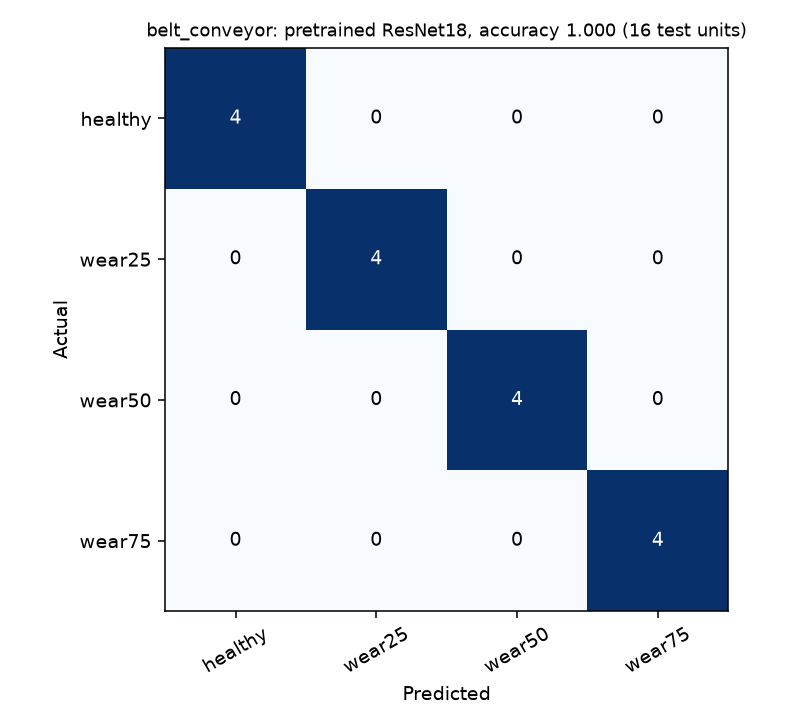
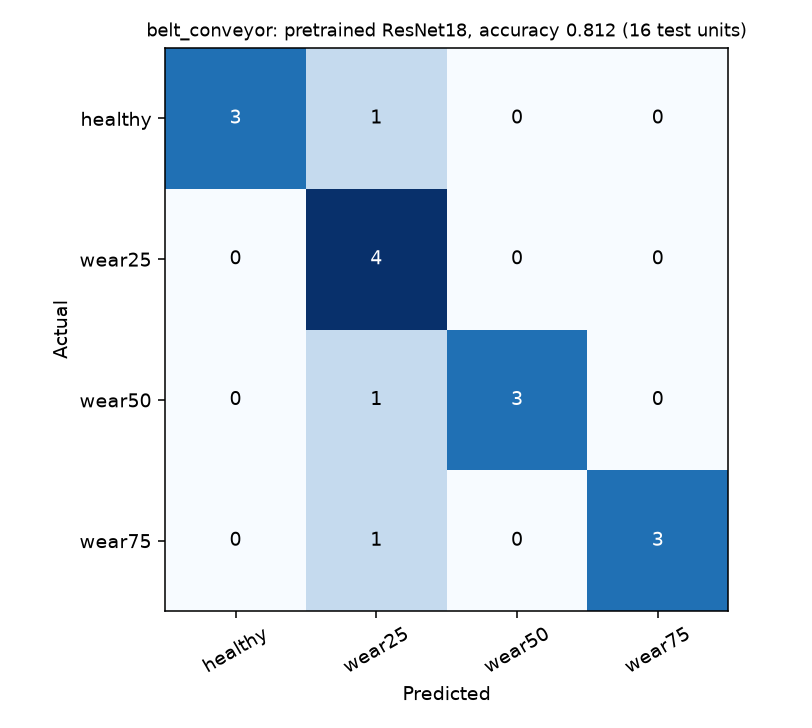
Update Week 6 five-machine results and reproducibility notes

Changed region(s): [[0.3695, 0.4533, 0.8929, 0.8462], [0.1847, 0.0604, 0.5542, 0.272], [0.6773, 0.0302, 0.7697, 0.0604]]

diff --git a/Models/belt_conveyor.py b/Models/belt_conveyor.py
@@ -17,7 +17,7 @@ Commands:
     csv             Week 6: 4-class sensor model from a CSV feature table
     cnn             Week 6: CNN with data augmentation on the named images (run export-images first)
     cnn-pretrained  Week 6: transfer learning, pretrained ResNet18 on the named images
-    intake-vibration  check the CORA vibration files downloaded in a browser (MD5) and file them
+    intake-vibration  check selectively downloaded CORA vibration files (MD5) and file them
     train-final     train the sensor model on all data and save it (--exclude to leave recordings out)
     predict         predict from any CSV (feature table or raw recording) and show accuracy if labels are known
     ensembles       proposal Week 6: XGBoost / LightGBM vs random forest etc. (--split time for the secondary test)
@@ -1822,11 +1822,11 @@ def cnn_pretrained(run: bool = True) -> dict:
 
 
 # ====================================================================================================
-# intake-vibration: check and file the CORA files downloaded in a browser
+# intake-vibration: check and file selectively downloaded CORA files
 # ====================================================================================================
 
 def intake_vibration(run: bool = True) -> dict:
-    """Check the CORA files downloaded in a browser against the repository's MD5 and move them into Raw_Data/.
+    """Check downloaded CORA files against the repository's MD5 and move them into Raw_Data/.
 
     The CORA repository (dataverse.csuc.cat, DOI 10.34810/DATA2500, CC BY 4.0) now shows a "not a bot"
     check, so these files cannot be fetched by code; download them from the dataset page in a browser
@@ -1888,7 +1888,7 @@ def intake_vibration(run: bool = True) -> dict:
             print(f"verified {name}", flush=True)
         MANIFEST.write_text(json.dumps({
             "source": "https://doi.org/10.34810/DATA2500", "license": "CC BY 4.0",
-            "note": "downloaded in a browser (repository bot check); every file checked against the publisher MD5",
+            "note": "selectively downloaded from CORA; every file checked against the publisher MD5",
             "files": records, "missing": missing}, indent=2) + "\n", encoding="utf-8")
         print(f"{len(records)} files verified; {len(missing)} still missing" + (f": {missing}" if missing else ""))
 

diff --git a/Models/excavator.py b/Models/excavator.py
@@ -9,7 +9,7 @@ Usage:
     python Models/excavator.py <command> --help
 
 Commands:
-    intake          check the CORA files downloaded in a browser (MD5) and move them into Raw_Data/
+    intake          check selectively downloaded CORA files (MD5) and move them into Raw_Data/
     csv             4-class vibration model from a CSV feature table (validation-selected model)
     export-images   save the infrared images as named files in Images/excavator/ (local only)
     cnn             CNN with data augmentation on the named images
@@ -32,11 +32,11 @@ ROOT = Path(__file__).resolve().parents[1]
 
 
 # ====================================================================================================
-# intake: check and file the CORA files downloaded in a browser
+# intake: check and file selectively downloaded CORA files
 # ====================================================================================================
 
 def intake(run: bool = True) -> dict:
-    """Check the CORA files downloaded in a browser against the repository's MD5 and move them into Raw_Data/.
+    """Check downloaded CORA files against the repository's MD5 and move them into Raw_Data/.
 
     The CORA repository (dataverse.csuc.cat, DOI 10.34810/DATA2500, CC BY 4.0) now shows a "not a bot"
     check, so these files cannot be fetched by code; download them from the dataset page in a browser
@@ -110,7 +110,7 @@ def intake(run: bool = True) -> dict:
             print(f"verified {name}", flush=True)
         MANIFEST.write_text(json.dumps({
             "source": "https://doi.org/10.34810/DATA2500", "license": "CC BY 4.0",
-            "note": "downloaded in a browser (repository bot check); every file checked against the publisher MD5",
+            "note": "selectively downloaded from CORA; every file checked against the publisher MD5",
             "files": records, "missing": missing}, indent=2) + "\n", encoding="utf-8")
         print(f"{len(records)} files verified; {len(missing)} still missing" + (f": {missing}" if missing else ""))
 

diff --git a/Documentation/week_06_professor_remarks.md b/Documentation/week_06_professor_remarks.md
@@ -1,4 +1,4 @@
-# Week 6: professor's remarks — 4 machines, 4 classes, CSV sensor models and CNNs
+# Week 6: professor's remarks — 5 machine mappings, 4 classes, CSV sensor models and CNNs
 
 **October 2026 — Saskatchewan Polytechnic PROJ 613.** Remarks received after the Week 5 review:
 
@@ -8,17 +8,17 @@
 4. Use **data augmentation**.
 5. **Name each image by its machine** (for example `pump_...`, `belt_...`) so every image has a separate name.
 
-The team also set the goal of **four machines ready by Week 5**; the Excavator was added as machine 4.
+The team also set the goal of **four machines ready by Week 5**; the Excavator was added as machine 4. The Dozer was added as machine 5 in Week 6 by mapping its final drive to the **same CORA gear-wear runs** already used for Belt Conveyor. It is not a fifth independent dataset.
 
 ## What was done
 
 | Remark | Implementation |
 |---|---|
-| 4 classes | Pump: healthy / inner / outer / ball. Haul Truck: healthy / inner / outer / **ball** (10 more UODS files, bearings 11–15). Belt Conveyor: healthy / wear25 / wear50 / wear75. **Excavator (new, machine 4):** healthy / bearing defect / unbalance / misalignment, from the CORA rig's other recorded faults. |
+| 4 classes | Pump: healthy / inner / outer / ball. Haul Truck: healthy / inner / outer / **ball** (10 more UODS files, bearings 11–15). Belt Conveyor: healthy / wear25 / wear50 / wear75. **Excavator (machine 4):** healthy / bearing defect / unbalance / misalignment, from the CORA rig's other recorded faults. **Dozer (machine 5):** healthy / wear25 / wear50 / wear75, reusing the Belt Conveyor CORA runs. |
 | CSV sensor model | `python Models/<machine>.py csv` writes `Processed_Data/<machine>_sensor_features_4class.csv` and trains models on it. The feature set and model (random forest, extra trees, gradient boosting, SVM, logistic regression) are **chosen on validation data inside the training set only**, then tested once. |
 | Named images | `python Models/<machine>.py export-images` saves PNGs to `Images/<machine>/<class>/`, e.g. `pump_inner_20Hz_15_-30_t07.png`, `excavator_unbalance_F15_f123.png`, with an `index.csv` (local only, git-ignored). |
 | CNN + augmentation | `cnn` (small CNN from scratch) and `cnn-pretrained` (ImageNet-pretrained **ResNet18**, transfer learning). Augmentation on training images: flip, shift, brightness/contrast, noise. Training length chosen on validation recordings. |
-| New data | Haul Truck ball faults (Mendeley, SHA-256 checked). CORA vibration (Vx) for the Belt Conveyor and Excavator and CORA infrared for the Excavator: the CORA repository now shows a "not a bot" check, so the 40 files were downloaded in a browser and every file was checked against the publisher MD5 (`intake` / `intake-vibration` commands). |
+| New data | Haul Truck ball faults (Mendeley, SHA-256 checked). CORA vibration (Vx) for the Belt Conveyor and Excavator and CORA infrared for the Excavator: only the needed CORA files were downloaded, and every file was checked against the publisher MD5 (`intake` / `intake-vibration` commands). |
 
 ## Results (accuracy, 4 classes)
 
@@ -29,16 +29,27 @@ The team also set the goal of **four machines ready by Week 5**; the Excavator w
 |---|---:|---:|---:|---:|
 | **Pump** | **0.958** (23/24) | **1.000** (24/24) | — | — |
 | **Haul Truck** | 0.800 validation-selected (24/30); fixed random forest 0.867 (26/30) | 0.417 (5/12) | **1.000** (30/30) | **0.913** (21/23) |
-| **Belt Conveyor** | 0.625 (10/16) | 0.562 (9/16) | **1.000** (16/16) | **1.000** (16/16) |
+| **Belt Conveyor** | 0.625 (10/16) | 0.562 (9/16) | **1.000** (16/16) | **0.812** (13/16) local rerun; 1.000 saved earlier |
 | **Excavator** | 0.188 (3/16) | 0.312 (5/16) | **0.938** (15/16) | **0.938** (15/16) |
+| **Dozer*** | 0.625 (10/16) | 0.562 (9/16) | **1.000** (16/16) saved | **1.000** (16/16) saved |
 
 Images = pretrained ResNet18 with data augmentation. Majority-class controls: Pump 0.250; Haul Truck 0.500 (sensor) / 0.250 (camera); Belt Conveyor and Excavator 0.250. The Haul Truck image time split has 23 test recordings because one ball recording is too short to have a later part.
+
+\*Dozer repeats the Belt Conveyor's 16 CORA gear-wear experiments. Its matching scores are a second equipment-applicability mapping, **not** a new independent validation or data collection. See [the Dozer note](week_06_dozer.md).
+
+**Local reproduction check (October 22):** The 16 CORA gear-wear vibration runs and all 28 Excavator source files were checked against the publisher's size and MD5 records. With the local environment rebuilt, the main validation-selected strict sensor results reproduced for Belt Conveyor (0.625), its shared-run Dozer analogue (0.625), and Excavator (0.188). The fixed random-forest Excavator result changed from 0.250 to 0.188 on this rerun; it is a secondary model and should not be described as exactly reproduced. The camera models were not retrained in this check. Raw and processed files remain local and Git-ignored.
+The Haul Truck's 30 selected UODS sensor files and XJTU event-camera archive also passed publisher checksum checks. Its four-class sensor rerun reproduced the saved validation-selected accuracy (0.800), and 463 named local event images were exported. The Haul Truck camera model was not retrained; its saved image score remains a prior result.
+
+**October 23 Belt Conveyor time-split rerun:** using the existing GitHub commands and locally cached inputs, `csv --split time` reproduced sensor accuracy 1.000 (16/16). `cnn-pretrained --split time` chose one epoch as before but returned image accuracy **0.8125 (13/16)** and macro F1 **0.8247**, whereas the earlier saved image result was 1.000 (16/16). The exact cause of this difference is not established. Both are *within-recording* time-split results; neither changes the separate whole-speed image result of 0.5625 (9/16). Do not cite the earlier perfect image score as exactly reproduced. The Dozer's saved image time-split score reuses the same CORA data and was not independently rerun here.
+
+The other Week 6 **sensor** time-split commands also reproduced their saved accuracies locally: Haul Truck 1.000 (30/30), Excavator 0.9375 (15/16), and Dozer 1.000 (16/16). Pump's original held-out sensor result was already completed and was not rerun for this checkpoint. Haul Truck, Excavator and Dozer camera models were not retrained in this check, so their camera time-split figures remain saved prior results.
 
 ## How to read these results
 
 - **Pump** meets the target on both sensor and images under the strict test.
 - **Haul Truck:** the fixed random forest reaches 0.867; most errors are outer-race faults. Offering the validation step longer (0.5 s) envelope windows and the microphone channel did not help on the held-out bearings (0.800), and both results are reported rather than keeping the better one after seeing the test. Ball-fault recordings were made **without load** (load sensor reads zero) while the others ran at about 400 N, so "ball" may partly mean "no load". The camera stays weak: the event images look almost the same for every fault, and a validation check of the camera's motion rhythm was also at chance, so it was not run on the test.
 - **Belt Conveyor and Excavator (CORA rig):** CORA recorded each fault **once per speed**. The fair test holds out a whole speed, so the model must recognise a fault at a speed it never trained on, from three example runs. Adding vibration and per-speed normalisation raised the Belt Conveyor sensor model from 0.375 to 0.625, but neither machine reaches 90% this way.
-- **Time split (all three non-Pump machines):** training on the first 60% of every 45-minute run and testing on the last 30% (10% gap) gives 0.913 to 1.000 for sensor and images. This shows the condition of a machine **already seen** can be recognised later in time. Because each fault comes from one recording, part of this score may come from recognising the recording rather than the fault, so it is reported **separately and labelled**, not as the main result.
+- **Preprocessing limitation:** the four-class CORA per-speed normalization uses unlabeled measurements from all runs at the held-out speed. This is batch-transductive, not a fully isolated new-machine prediction; the selected Belt/Dozer scores and some Excavator folds depend on it. No test labels were used, but a training-only preprocessing evaluation remains necessary before claiming deployment-style generalization.
+- **Time split (the four non-Pump mappings):** training on the first 60% of each recording and testing on the last 30% (10% gap) gives 0.8125 to 1.000 in the saved results and latest Belt rerun. This shows the condition of a machine **already seen** can be recognised later in time. Because each fault comes from one recording, part of this score may come from recognising the recording rather than the fault, so it is reported **separately and labelled**, not as the main result. Dozer and Belt Conveyor share the same source runs.
 
-No setting was chosen by looking at test results. Where an approach failed on validation data (camera motion rhythm for the Haul Truck), it was not tried on the test.
+For the original Week 6 models, settings were chosen without looking at their test results. Where an approach failed on validation data (camera motion rhythm for the Haul Truck), it was not tried on the test. Later exploratory checks on these already-used test runs do not count as a new confirmatory accuracy claim.

diff --git a/README.md b/README.md
@@ -6,18 +6,23 @@ For each machine we detect the **current fault condition of one component** two 
 
 ## Results (accuracy, 4 classes)
 
+**Week 6 presentation scope:** the five machine mappings below. Dozer reuses Belt Conveyor data; Wheel Loader, Drill Rig and Grader remain planned. Existing Week 7 anomaly work is outside this checkpoint.
+
 | Machine (component) | Classes | Sensor | Images (CNN) | Sensor, time split | Images, time split |
 |---|---|---:|---:|---:|---:|
 | **Pump** (support bearing) | healthy, inner, outer, ball | **0.958** | **1.000** | — | — |
 | **Haul Truck** (wheel-motor bearing) | healthy, inner, outer, ball | 0.800–0.867 | 0.417 | 1.000 | 0.913 |
-| **Belt Conveyor** (geared drive) | healthy, wear 25/50/75% | 0.625 | 0.562 | 1.000 | 1.000 |
+| **Belt Conveyor** (geared drive) | healthy, wear 25/50/75% | 0.625 | 0.562 | 1.000 | 0.812 rerun (1.000 saved) |
 | **Excavator** (swing drive) | healthy, bearing, unbalance, misalignment | 0.188 | 0.312 | 0.938 | 0.938 |
 | **Dozer** (track final drive)* | healthy, wear 25/50/75% | 0.625 | 0.562 | 1.000 | 1.000 |
 
-- **Main test (columns 3–4):** whole recordings, bearings or speeds the model never saw in training. This is the fair result.
+- **Main test (columns 3–4):** whole recordings, bearings or speeds the model never saw in training. This is the primary grouped result, subject to the CORA preprocessing caveat below.
+- **CORA preprocessing caveat:** the later four-class Belt Conveyor/Dozer and some Excavator sensor folds normalize features across all recordings at a speed, including the held-out speed. No test labels enter fitting, but these are batch-transductive scores, not estimates for one entirely isolated new machine. See [methodology](Documentation/methodology.md).
 - **Time split (columns 5–6):** the model trains on the first 60% of each recording and is tested on the last 30%. This test is easier because the same recordings appear in training, so it is reported separately.
-- \*The Dozer reuses the **same 16 CORA runs, features and 4 classes as the Belt Conveyor** (no public dozer dataset exists), so its scores equal the Belt Conveyor's; it is a mapping, not separate evidence.
+- **Week 6 reproduction note:** on October 23, the published Belt Conveyor time-split sensor command reproduced 1.000, but the published image command produced 0.8125 (13/16 runs) instead of its earlier saved 1.000. The image score is not exactly reproducible in this local rerun; see the [Week 6 summary](Documentation/week_06_professor_remarks.md). The whole-speed image result remains 0.5625. The Dozer time-split image number below is the earlier saved score on the same CORA runs, not an independent rerun.
+- \*The Dozer reuses the **same 16 CORA runs, features and 4 classes as the Belt Conveyor** (no public dozer dataset exists). Its saved scores matched the Belt Conveyor's saved scores; a later Belt image rerun differed. This is a mapping, not separate evidence.
 - Only the Pump reaches 90% on the main test. The reasons and caveats are in the [Week 6 summary](Documentation/week_06_professor_remarks.md).
+- **More-than-80% in both modalities is currently met only by Pump (1 of 8 equipment mappings).** Wheel Loader, Drill Rig and Grader have no evaluated pair yet. Reusing the Belt Conveyor's CORA runs under another machine name does not create a new validation result; the [methodology](Documentation/methodology.md) defines the accuracy gate.
 - XGBoost and LightGBM were compared with the random forest on the same tests and did not beat it ([Week 6 ensembles](Documentation/week_06_ensembles.md)).
 
 ## Quick start
@@ -25,10 +30,12 @@ For each machine we detect the **current fault condition of one component** two 
 You need [Python 3.11](https://www.python.org/downloads/) (tick **Add python.exe to PATH**), [VS Code](https://code.visualstudio.com/) and [Git](https://git-scm.com/downloads).
 
 1. **Get the project.** In VS Code press `Ctrl+Shift+P` → **Git: Clone**, paste `https://github.com/theganeshmishra/ai-based-predictive-maintenance-mining-equipment.git`, then open the folder.
-2. **Set it up once.** In the terminal run `powershell -ExecutionPolicy Bypass -File .\setup.ps1` (Mac/Linux: `bash setup.sh`). Add `-Data` (`--data`) to also download the data that can be fetched automatically (about 1.1 GB).
-3. **Run it.** Open a notebook in `Notebook/`, pick the **Capstone (.venv)** kernel at the top right and click **Run All**. Or press `Ctrl+Shift+B` to run all 5 machines.
+2. **Set it up once.** In the terminal run `powershell -ExecutionPolicy Bypass -File .\setup.ps1` (Mac/Linux: `bash setup.sh`). Add `-Data` (`--data`) to fetch only the source files available automatically. The CORA vibration files and other publisher-gated inputs need the separate intake steps in the [dataset manifest](Dataset_Manifest/manifest.md).
+3. **Run it.** Open a notebook in `Notebook/`, pick the **Capstone (.venv)** kernel at the top right and click **Run All**. Or press `Ctrl+Shift+B` to run all five model scripts after their required local data are present.
 
 The notebooks still show the saved results when the data is missing. If you get `No module named cv2`, the wrong kernel is selected: choose **Capstone (.venv)**.
+
+On macOS, if an ensemble run cannot load `xgboost` or `lightgbm` because `libomp.dylib` is missing, install the system OpenMP runtime or set `DYLD_LIBRARY_PATH` to the `torch/lib` directory inside this environment before launching Python. This is a local runtime issue, not evidence that the saved model results have been reproduced.
 
 ## Repository layout
 

diff --git a/Documentation/methodology.md b/Documentation/methodology.md
@@ -94,6 +94,16 @@ mechanically similar component proxy. It is not direct mining-pump evidence.
   and confusion matrices, and show the 75%-accuracy most-frequent control.
   This tests speed transfer on one laboratory rig, **not** transfer to an
   unseen gearbox or mining conveyor.
+- The later Week 6 **four-class CORA sensor baselines** use a different feature
+  pipeline from that original two-class comparison. Their per-speed-normalized
+  candidate features are calculated across all recordings at each speed,
+  including the four held-out runs at the test speed. This uses no test labels
+  and the model is still fitted on training runs only, but it is a
+  **batch-transductive preprocessing step**. The Belt Conveyor and Dozer
+  selected scores use it in every fold; the Excavator selected score uses it
+  in some folds. Those scores should not be presented as a fully inductive
+  prediction on a single new machine. A training-only preprocessing rerun is
+  needed before claiming that stronger deployment-style result.
 - Report Accuracy, macro Precision/Recall/F1, per-class support and metrics,
   and run-level confusion matrices. The Pump primary tests both have 24 test
   recordings, but their rigs and operating-condition shifts differ. Their
@@ -103,6 +113,16 @@ mechanically similar component proxy. It is not direct mining-pump evidence.
 - Existing UCI hydraulic and ESPset baselines have their own
   group-aware tests and labels in `Results/`. They must not be inserted into
   the Pump four-class comparison or represented as visual-fault validation.
+- **80% accuracy gate:** require more than 0.80 recording/run-level accuracy
+  in **each** modality for an equipment pair, with the same comparable fault
+  classes, independent held-out units and per-class results. Exactly 0.80 is
+  not above this gate. A high frame/window score, a same-recording time split,
+  or the best of several models chosen after seeing the held-out results does
+  not qualify. The existing CORA speed folds and XJTU Rotor test recordings
+  have already been examined repeatedly; any further tuning on those same
+  units is exploratory until a fresh, untouched test collection is available.
+  One CORA run set reused for several equipment analogues remains **one**
+  experiment, not independent accuracy evidence for each machine.
 
 ## Claim boundary
 

diff --git a/Documentation/week_06_dozer.md b/Documentation/week_06_dozer.md
@@ -8,8 +8,9 @@ There is no public dozer dataset with matching sensor and camera data. As planne
 [dataset manifest](../Dataset_Manifest/manifest.md), the Dozer final drive uses the **same 16 CORA
 gear-wear runs as the Belt Conveyor** (CORA v2.1, DOI 10.34810/DATA2500, CC BY 4.0). Following the
 professor's remark ("4 class classification") it uses the **same 4 classes**: healthy, wear 25%, wear 50%
-and wear 75%. Same data, same features and same classes means the Dozer's scores **equal the Belt
-Conveyor's**. It maps that laboratory rig to the dozer final drive; it is **not separate evidence**.
+and wear 75%. The saved Dozer and Belt Conveyor scores matched because they
+used the same inputs and setup; later image reruns can differ. This maps that
+laboratory rig to the dozer final drive; it is **not separate evidence**.
 
 (A first version used the manifest's 2-class target, healthy vs worn; it was replaced by the 4-class version.)
 
@@ -31,6 +32,10 @@ Conveyor's**. It maps that laboratory rig to the dozer final drive; it is **not 
 | Sensor: XGBoost | 0.438 | 1.000 |
 | Sensor: LightGBM | 0.562 | 1.000 |
 | Camera: pretrained ResNet18 | 0.562 | 1.000 |
-| Anomaly: Isolation Forest (ROC-AUC) | 0.63 | 0.92 |
 
-All sensor, camera and anomaly numbers are identical to the Belt Conveyor's, as expected.
+All saved sensor and camera numbers are identical to the Belt Conveyor's, as expected.
+These are the saved Dozer results. A later local rerun of the **Belt Conveyor**
+image time split returned 0.8125 rather than its saved 1.000; the Dozer image
+time split was not independently rerun. Neither time-split value demonstrates
+performance on a new speed or a different dozer.
+The anomaly-detection results belong to Week 7 and are not part of this Week 6 checkpoint.

diff --git a/Documentation/week_06_ensembles.md b/Documentation/week_06_ensembles.md
@@ -31,6 +31,11 @@
 Numbers in brackets after the machine = test recordings. Time split (secondary): every model scores
 1.000 on Haul Truck and Belt Conveyor and 0.938 on Excavator.
 
+**Machine 5 (Dozer):** its ensemble run uses the same 16 CORA gear-wear source runs,
+features and folds as Belt Conveyor. The saved Dozer ensemble scores match the Belt
+Conveyor column; they are not a fifth independent test dataset. See
+[Week 6 Dozer](week_06_dozer.md).
+
 Training time for all test rounds together: 0.3–2.6 s for random forest, extra trees, XGBoost and
 LightGBM; 1.7–8.1 s for scikit-learn gradient boosting (CPU).
 
